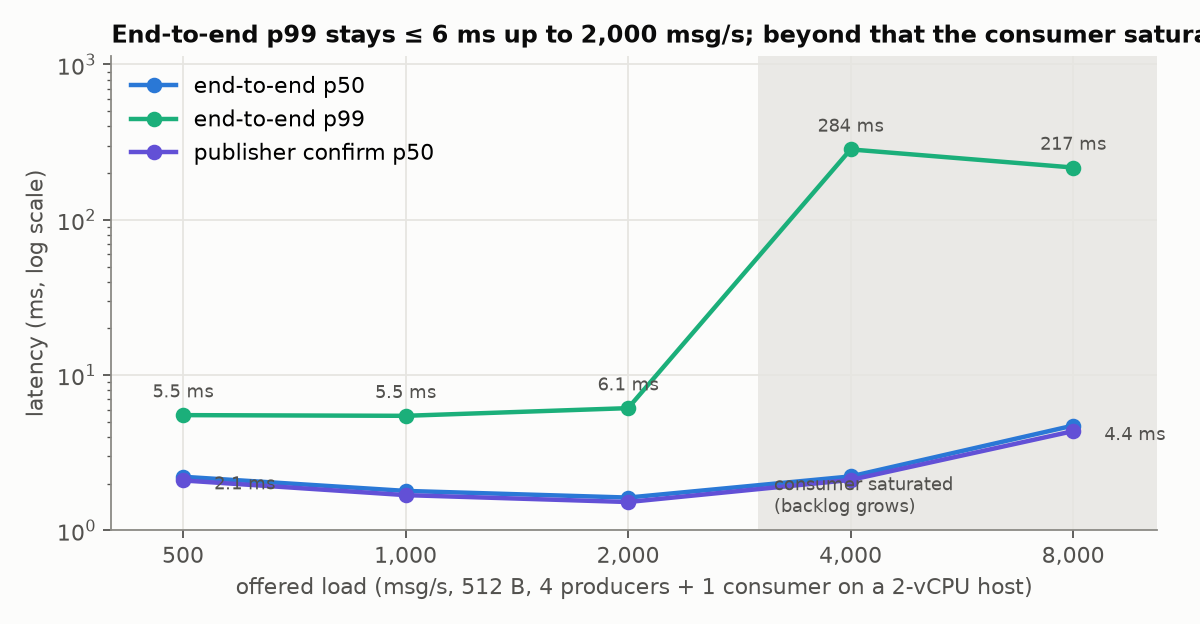
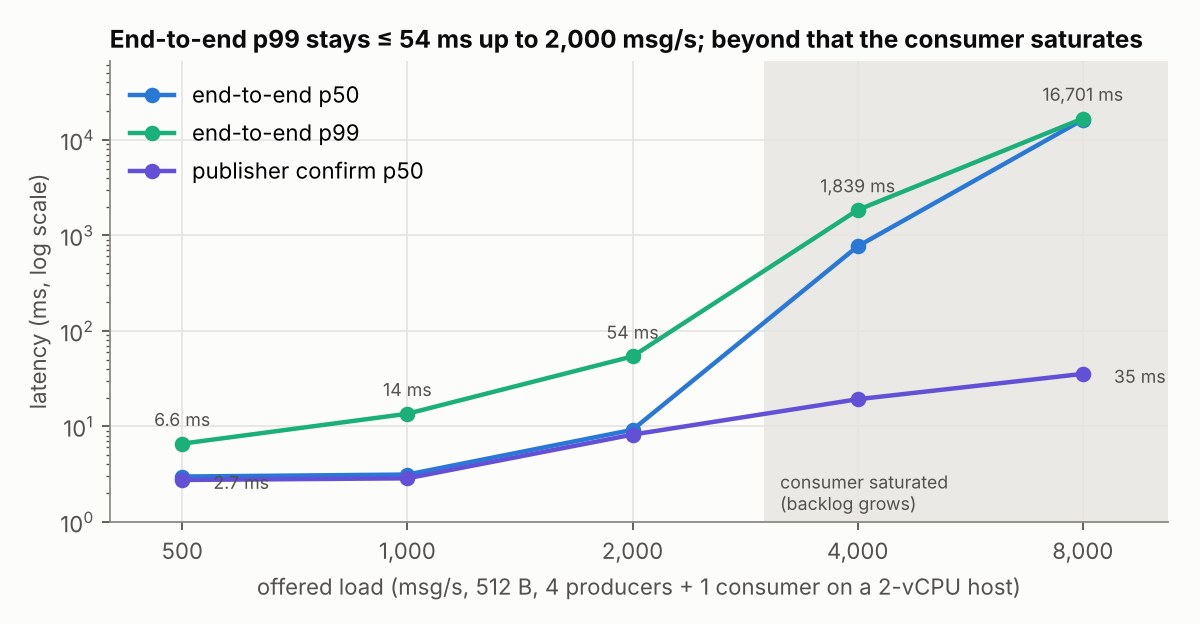
Docker reference results, Grafana tiles, docs

diff --git a/scripts/plot_results.py b/scripts/plot_results.py
@@ -239,14 +239,14 @@ def bench_charts():
     ax.set_xscale("log"); ax.set_yscale("log")
     ax.xaxis.set_minor_locator(NullLocator())
     ax.set_xticks(xs); ax.set_xticklabels([f"{x:,}" for x in xs])
-    ax.axvspan(3000, max(xs) * 1.3, color="#d9d8d3", alpha=0.5, lw=0)
-    ax.text(3150, 1.2, "consumer saturated\n(backlog grows)", fontsize=8, color=INK2, va="bottom")
     ax.set_xlim(min(xs) * 0.8, max(xs) * 1.3)
     ax.set_ylim(1, max(float(x["e2e_p99_ms"]) for x in rows) * 4)
-    ax.set_xlabel("offered load (msg/s, 512 B, 4 producers + 1 consumer on a 2-vCPU host)")
+    ax.set_xlabel("offered load (msg/s, 512 B persistent, 4 producers + 1 consumer)")
     ax.set_ylabel("latency (ms, log scale)")
     r2 = next(x for x in rows if x["offered_rate"] == "2000")
-    ax.set_title(f"End-to-end p99 stays ≤ {float(r2['e2e_p99_ms']):.0f} ms up to 2,000 msg/s; beyond that the consumer saturates",
+    worst = max(rows, key=lambda x: float(x["e2e_p99_ms"]))
+    ax.set_title(f"p99 ≤ {float(r2['e2e_p99_ms']):.1f} ms up to 2,000 msg/s; tail reaches "
+                 f"{float(worst['e2e_p99_ms']):,.0f} ms at {int(worst['offered_rate']):,} msg/s",
                  loc="left", fontsize=11)
     ax.legend(loc="upper left")
     fig.tight_layout(); fig.savefig(os.path.join(OUT, "bench-latency.png"), dpi=160); plt.close(fig)

diff --git a/docs/TEST-HARNESS.md b/docs/TEST-HARNESS.md
@@ -2,7 +2,7 @@
 
 The scripts run against two interchangeable environments, selected by `MODE`.
 
-| | `MODE=docker` (default, submission target) | `MODE=native` (reference results) |
+| | `MODE=docker` (default; **reference results**) | `MODE=native` (development harness) |
 |---|---|---|
 | Nodes | 3 containers, `rabbitmq:4.1-management` | 3 Linux network namespaces, RabbitMQ 3.12.1 / Erlang 25 (Ubuntu 24.04 package) |
 | Node names | `rabbit@rabbit1..3` | `rabbit@rabbit1..3` |
@@ -13,18 +13,25 @@ The scripts run against two interchangeable environments, selected by `MODE`.
 | Partition | `docker network disconnect` | `ip link set vethN down` (silent packet drop) |
 | Monitoring | Prometheus + Grafana containers | Prometheus 3.5 binary with the same `prometheus.yml` / `alerts.yml` |
 
-**Why there are two.** The cloud workspace used to produce the reference results cannot pull
-images from Docker Hub. The native harness reproduces the same topology, node names, ports and
-broker configuration, and its partitions behave like `docker network disconnect` (silent drops
-rather than resets). Quorum-queue and Raft behaviour is the same in RabbitMQ 3.12 and 4.1.
-Absolute throughput numbers will differ between machines.
+**Reference results** (`results/`, `docs/charts/`, `docs/REPORT.md`) come from `MODE=docker` on a
+MacBook Pro (Apple Silicon, 10 CPU cores) with Docker Desktop, all brokers and clients on the same machine.
 
-To regenerate every result on your own Docker host:
+The native harness reproduces the same topology in Linux network namespaces (same node names, ports
+and broker configuration) for environments without Docker. It was used during development.
+
+To regenerate every result:
 
 ```bash
 make up && make build
-scripts/chaos.sh all && scripts/bench.sh all && python3 scripts/plot_results.py
+scripts/chaos.sh all && scripts/bench.sh all
+python3 scripts/plot_results.py && python3 scripts/make_report.py
 ```
 
-Hardware of the reference run: one VM with **2 vCPU (Intel Xeon @ 2.1 GHz) and 8 GB RAM**, shared by
-all three brokers, Prometheus and all clients. Numbers are therefore conservative and relative.
+Notes from the Docker runs:
+
+* Mount the broker config as a **folder**, not a single file. Docker Desktop keeps a single-file bind
+  mount pointing at the old file when the host file is replaced (for example by a git branch switch);
+  a node that restarts after a partition then cannot read its config and fails to boot.
+* Never delete and re-create a quorum queue while a member is down. A member that misses the delete
+  keeps its old Raft log and can later win an election with that stale data. `reset_queue` refuses to
+  run unless all three members are online.

diff --git a/docs/ARCHITECTURE.md b/docs/ARCHITECTURE.md
@@ -220,5 +220,5 @@ Re-render with `java -jar plantuml.jar -tpng docs/c4/*.puml`.
 * The consumer's idempotency store is in memory. A restarted consumer could reprocess messages
   that were redelivered after its crash. Production would use a persistent store (Redis or a DB
   unique key).
-* Benchmark numbers come from a single-host test harness (see REPORT.md §2) and are relative,
-  not production capacity figures.
+* Benchmark numbers come from one laptop running brokers, monitoring and clients together
+  (docker compose, see docs/TEST-HARNESS.md); they are relative, not production capacity figures.
